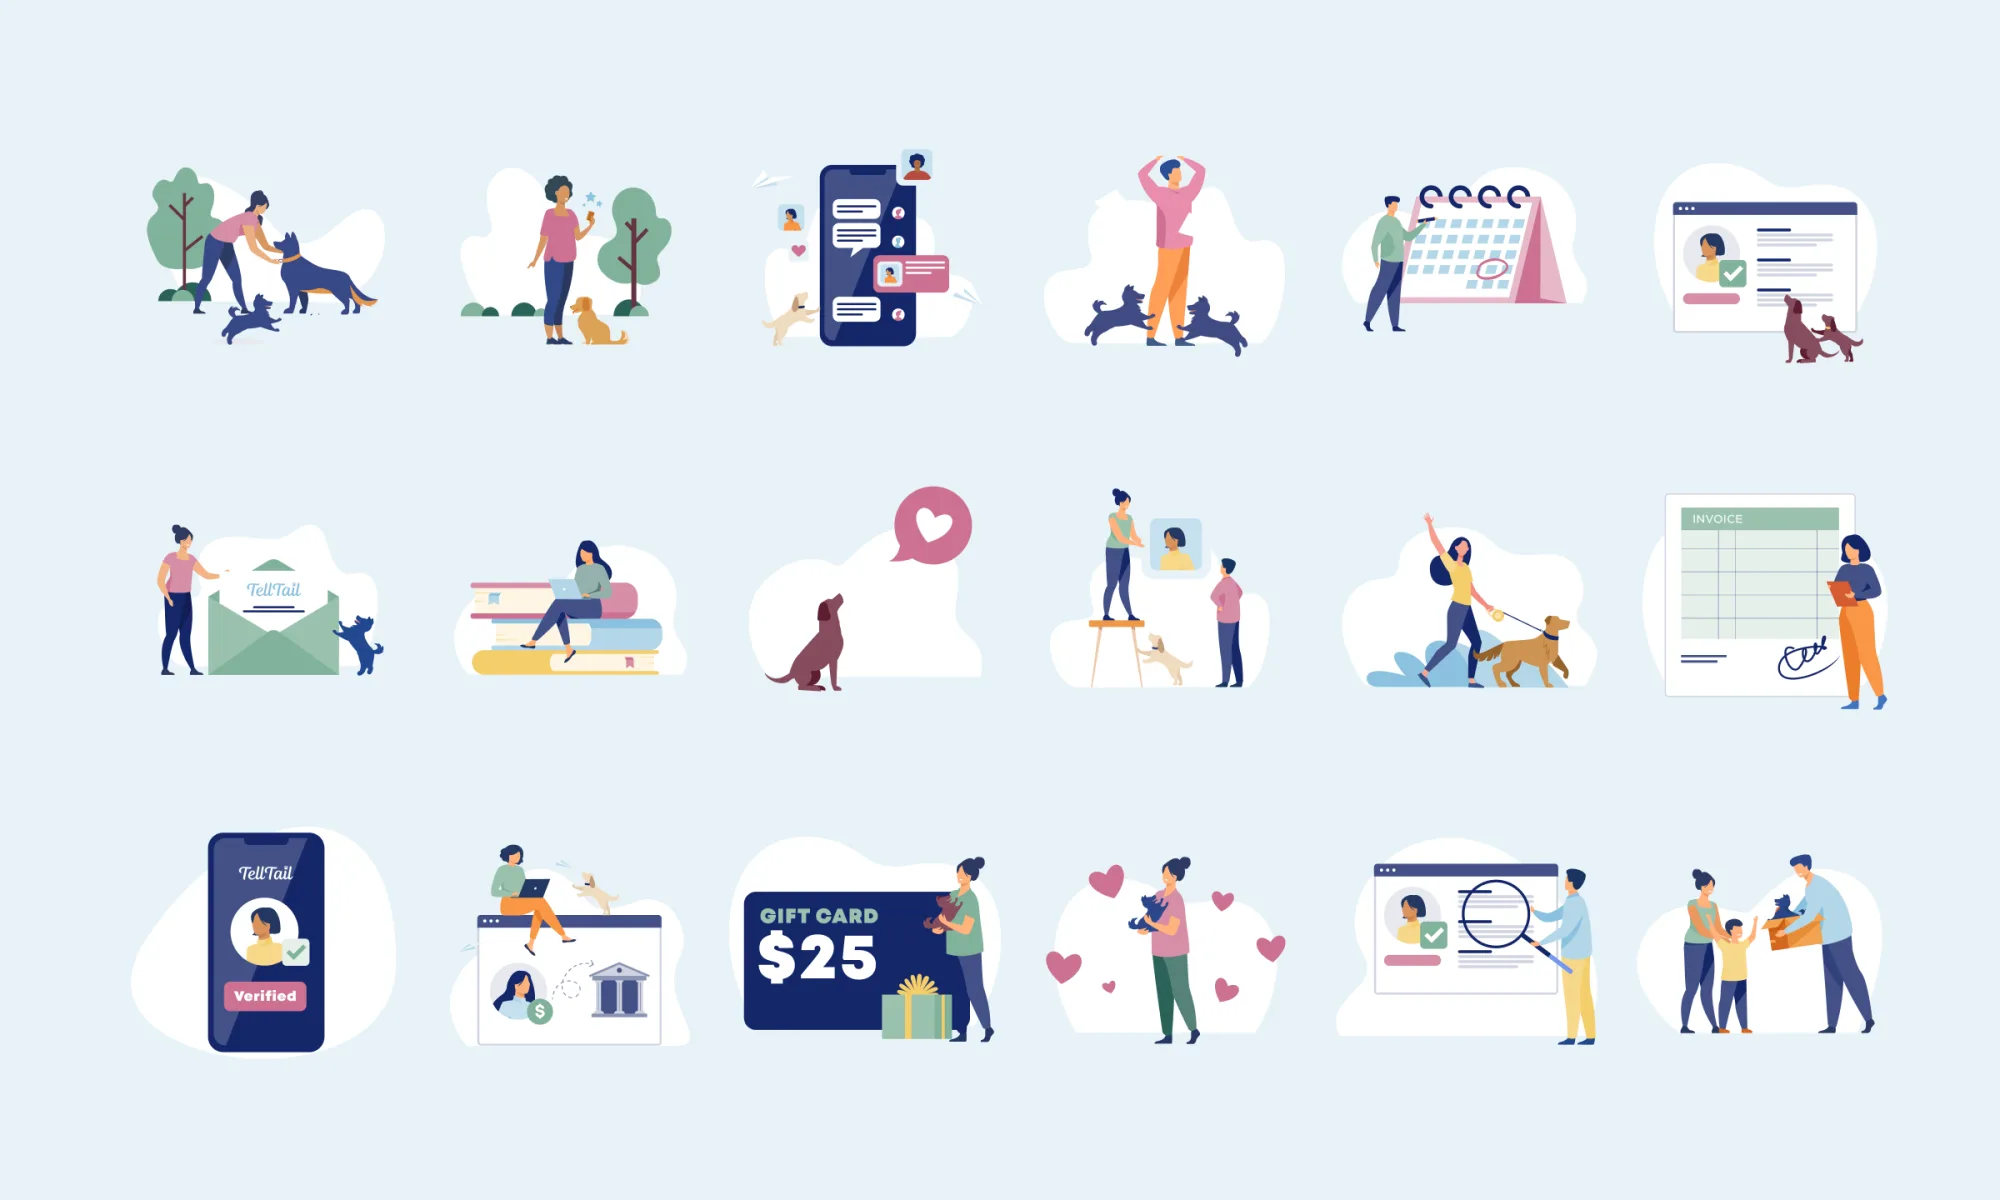
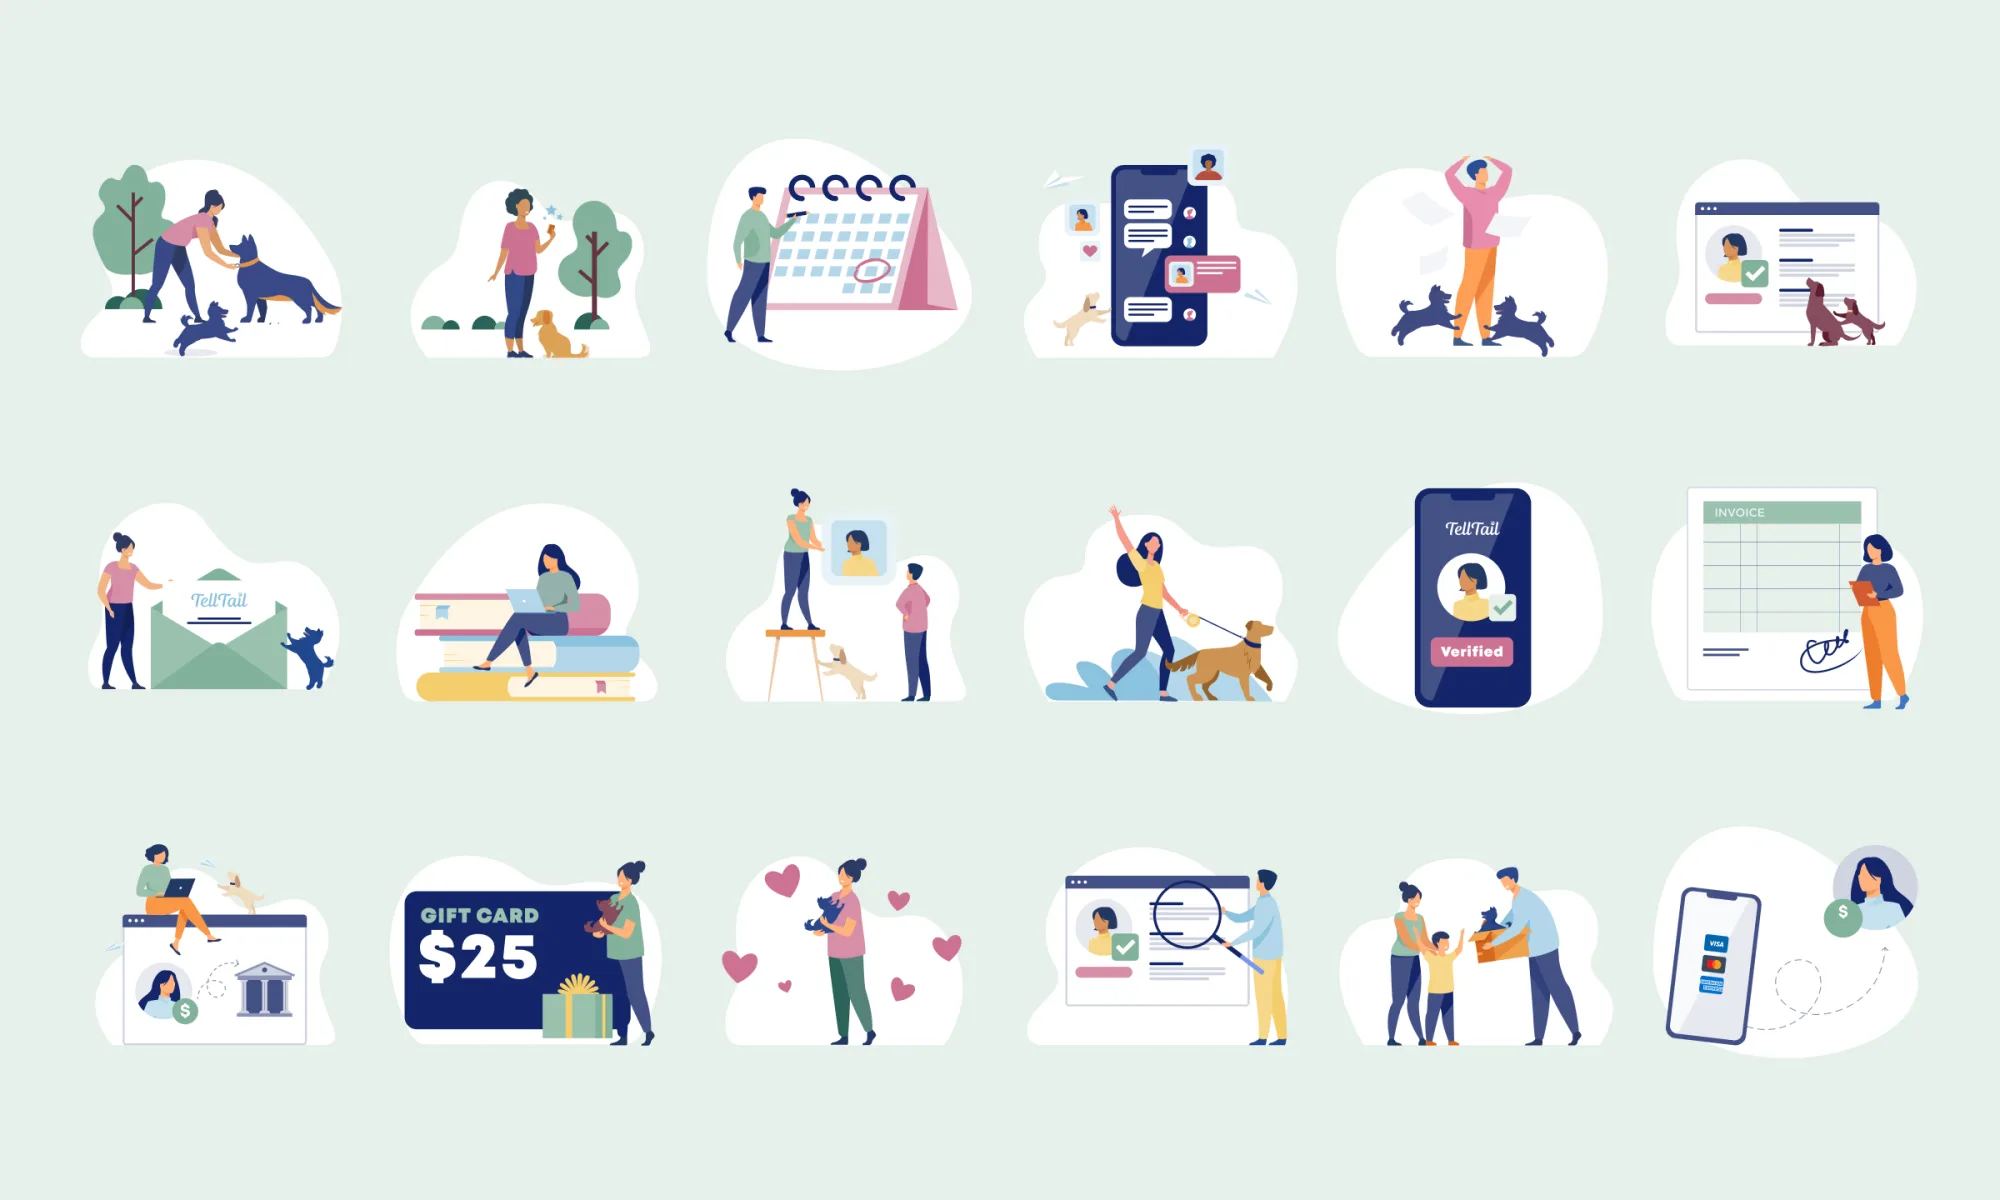
TellTail: re-add the mobile screens, refresh illustrations and onboarding
The mobile export now renders its screen content, so it goes back into the
gallery, first, as the one image that shows the whole flow.

diff --git a/_projects/telltail.html b/_projects/telltail.html
@@ -9,10 +9,9 @@ thumb: "/images/thumbnails/telltail-thumbnail.webp"
 image_dir: "/images/telltail/"
 video: "/video/telltail-match-card.mp4"
 video_alt: "A TellTail match card moving through its states — new match, compatibility score, verification, masked contact details, payment request"
-# Explicit order — argument first, brand last. TT_Mobile.webp is deliberately
-# omitted: every phone in it exports as an empty navy screen. Re-add once the
-# frames render their content.
+# Explicit order — argument first, brand last.
 gallery:
+  - "/images/telltail/TT_Mobile.webp"
   - "/images/telltail/TT_Components.webp"
   - "/images/telltail/TT_Payments.webp"
   - "/images/telltail/TT_Payments_2.webp"
